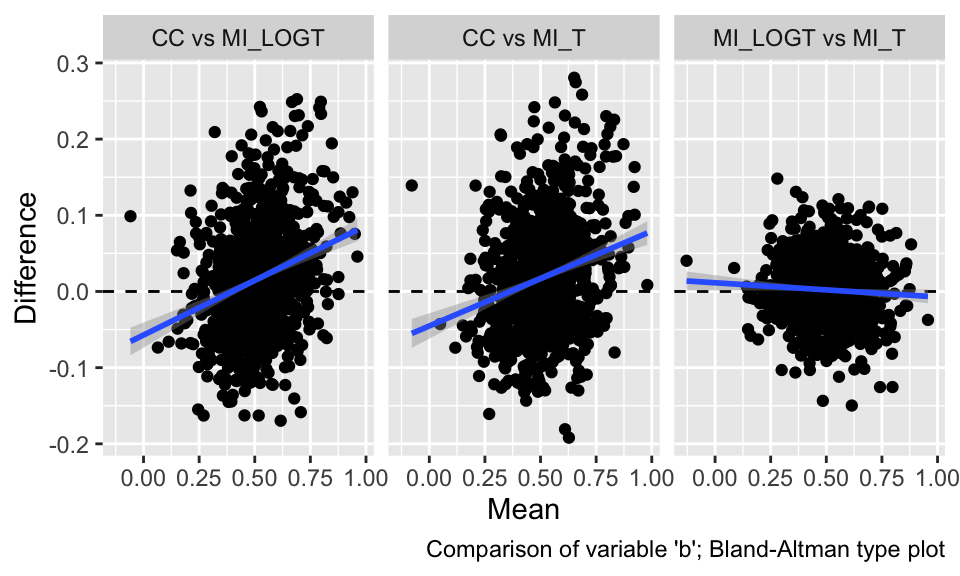
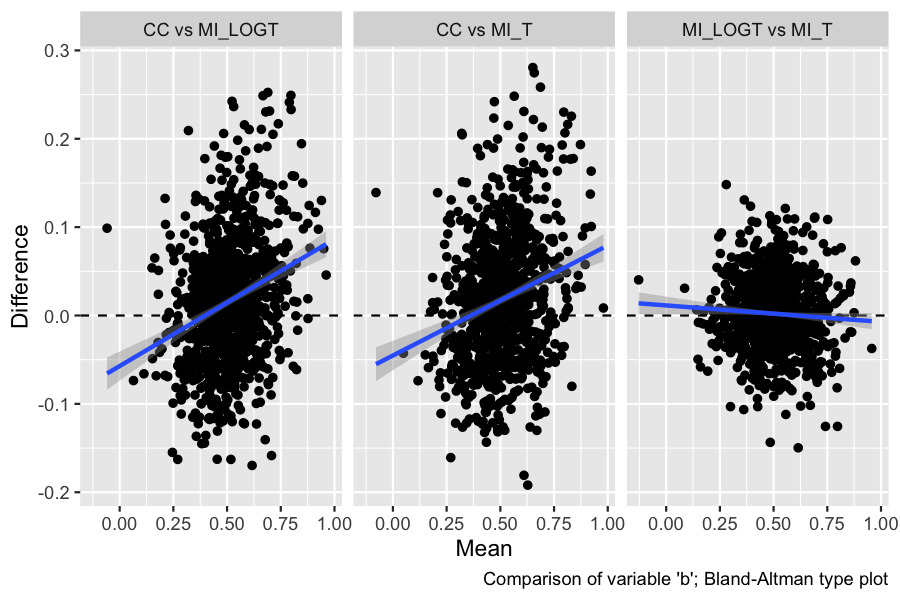
Re-compiled README.Rmd with higher-res figures

diff --git a/README.md b/README.md
@@ -190,13 +190,13 @@ library(ggplot2)
 autoplot(s, type = "lolly", stats = "bias")
 ```
 
-<img src="man/figures/README-lolly-1.png" width="80%" style="display: block; margin: auto;" />
+<img src="man/figures/README-lolly-1.png" width="85%" style="display: block; margin: auto;" />
 
 ``` r
 autoplot(s, type = "zip")
 ```
 
-<img src="man/figures/README-zipper-1.png" width="80%" style="display: block; margin: auto;" />
+<img src="man/figures/README-zipper-1.png" width="85%" style="display: block; margin: auto;" />
 
 With `rsimsum` `0.5.0` the plotting functionality has been completely
 rewritten, and new plot types have been implemented:
@@ -210,7 +210,7 @@ rewritten, and new plot types have been implemented:
 autoplot(s, type = "est_ba")
 ```
 
-<img src="man/figures/README-ba-1.png" width="80%" style="display: block; margin: auto;" />
+<img src="man/figures/README-ba-1.png" width="85%" style="display: block; margin: auto;" />
 
   - Ridgeline plots.
 
@@ -221,7 +221,7 @@ autoplot(s, type = "est_ridge")
 #> Picking joint bandwidth of 0.0295
 ```
 
-<img src="man/figures/README-ridgeline-1.png" width="80%" style="display: block; margin: auto;" />
+<img src="man/figures/README-ridgeline-1.png" width="85%" style="display: block; margin: auto;" />
 
 Finally, nested loop plots have been implemented in `rsimsum` `0.6.0`:
 
@@ -235,7 +235,7 @@ s.nlp <- rsimsum::simsum(
 autoplot(s.nlp, stats = "bias", type = "nlp")
 ```
 
-<img src="man/figures/README-nlp-1.png" width="80%" style="display: block; margin: auto;" />
+<img src="man/figures/README-nlp-1.png" width="85%" style="display: block; margin: auto;" />
 
 The plotting functionality now extend the S3 generic `autoplot`: see
 `?ggplot2::autoplot` and `?rsimsum::autoplot.simsum` for further
